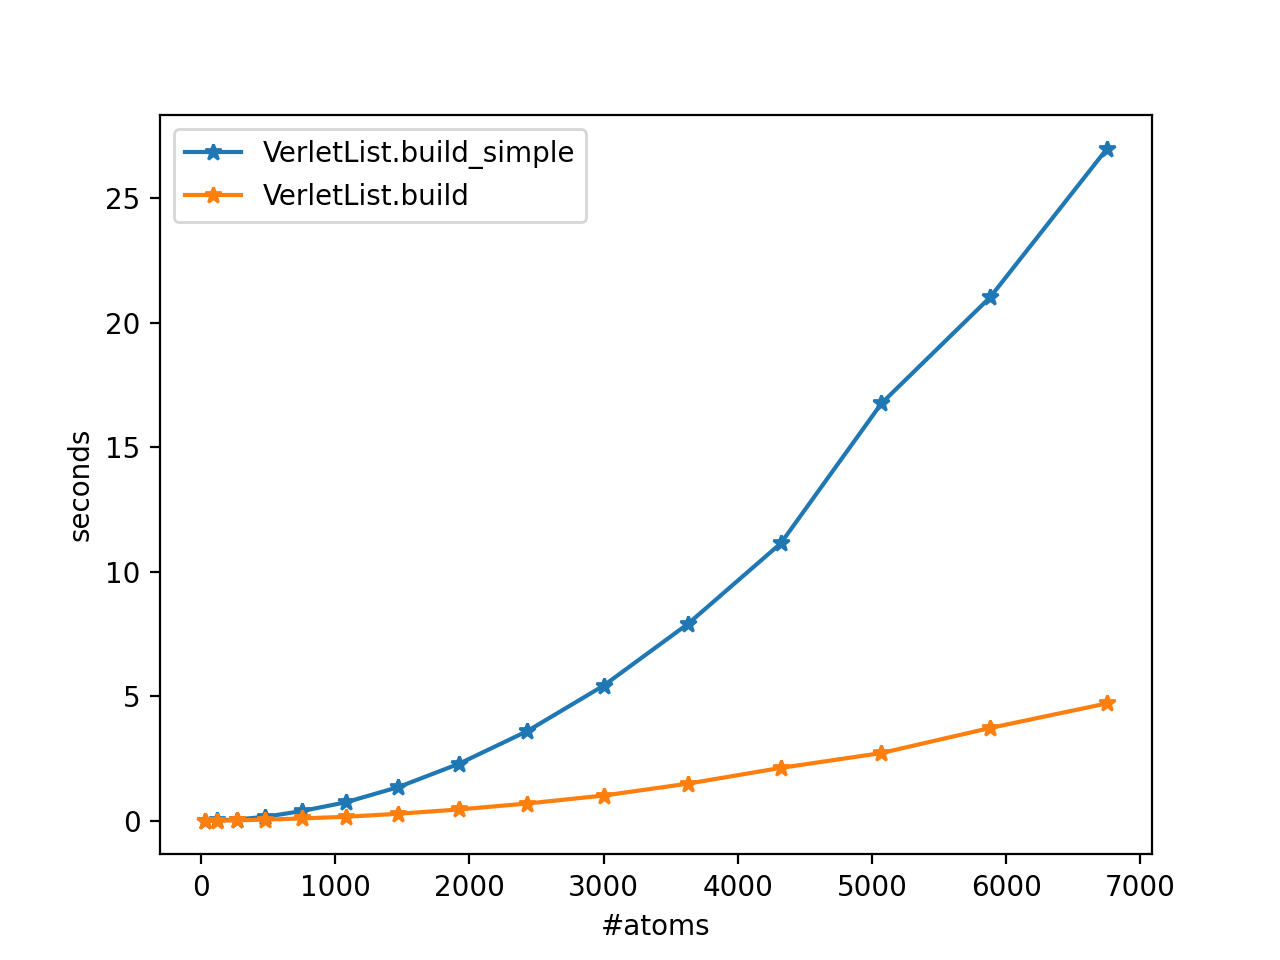
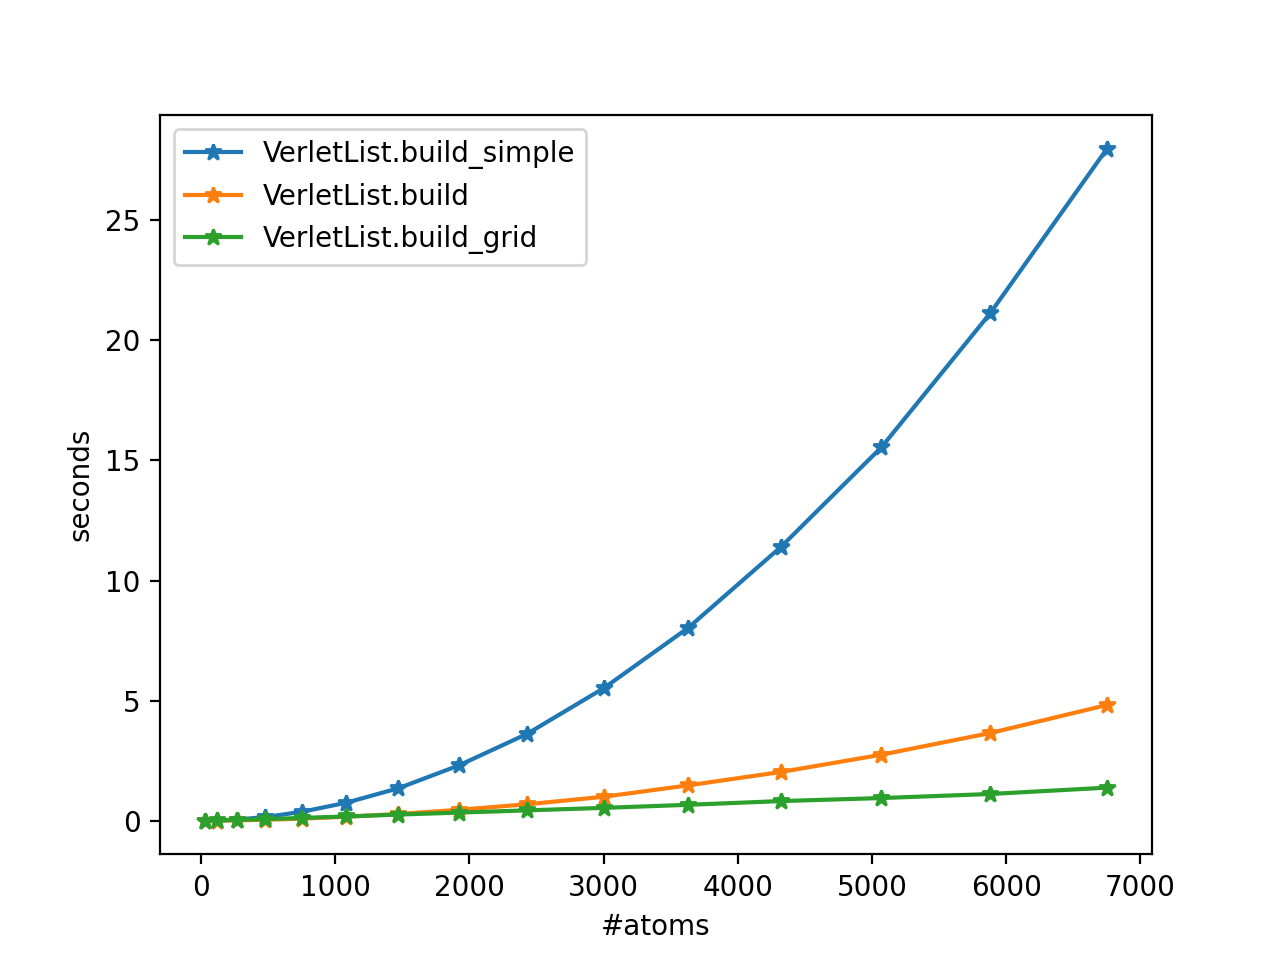
details in time_verlet.png

diff --git a/prof/time_verlet.py b/prof/time_verlet.py
@@ -7,8 +7,6 @@ import matplotlib.pyplot as plt
 
 if __name__ == '__main__':
     cutoff = 5.0
-    # this cutoff generates ~40 contacts per atom in the interior of the box,
-    # hence we set
     max_neighbours = 60
 
     # some lists to store our results
@@ -50,6 +48,7 @@ if __name__ == '__main__':
     print(n_at)
     print(t_bs)
     print(t_b)
+    print(t_bb)
 
     # make a plot
     fig, ax = plt.subplots()
@@ -62,7 +61,6 @@ if __name__ == '__main__':
 
     plt.show()
 
-    print(f'actual max contacts: {vl.actual_max_neighbours()}')
     print('-*# done #*-')
 
 
